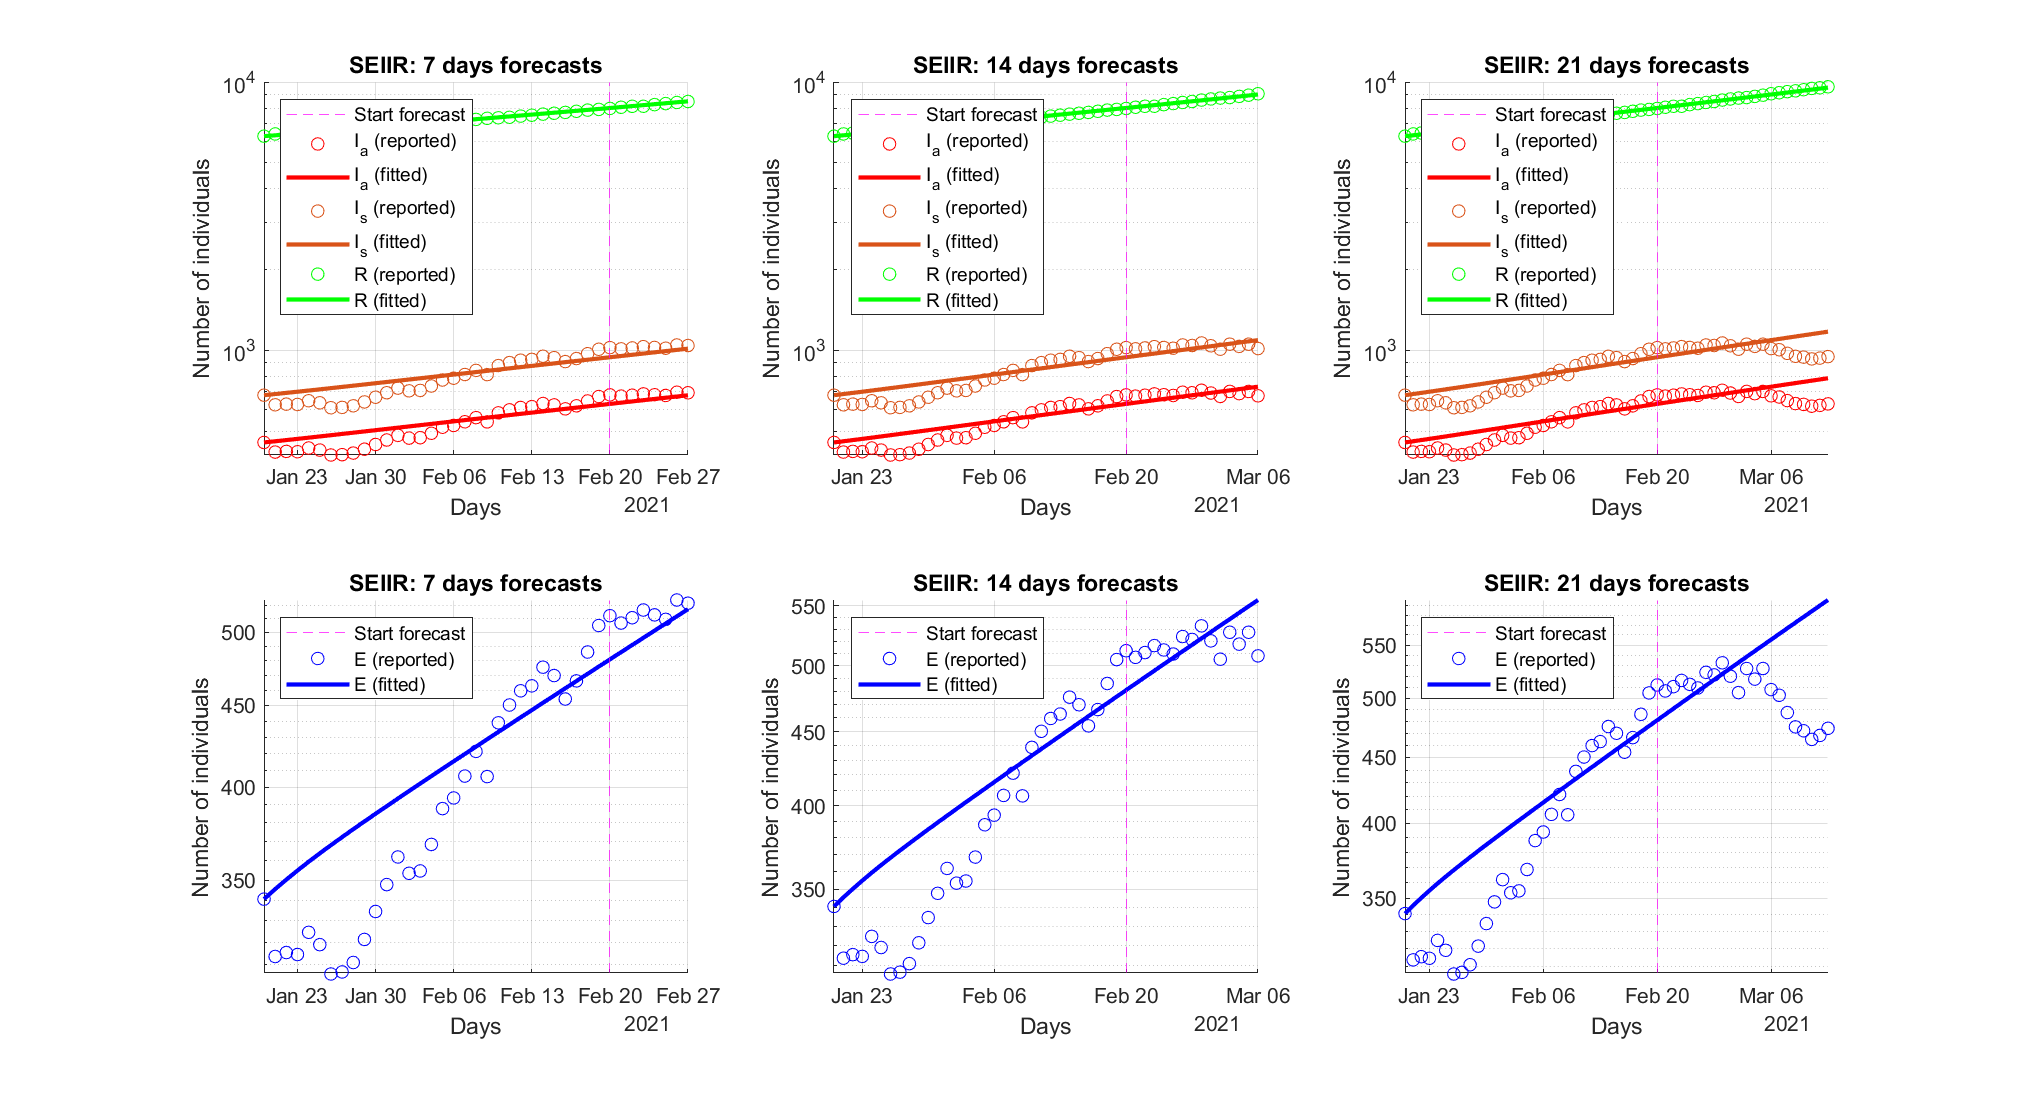
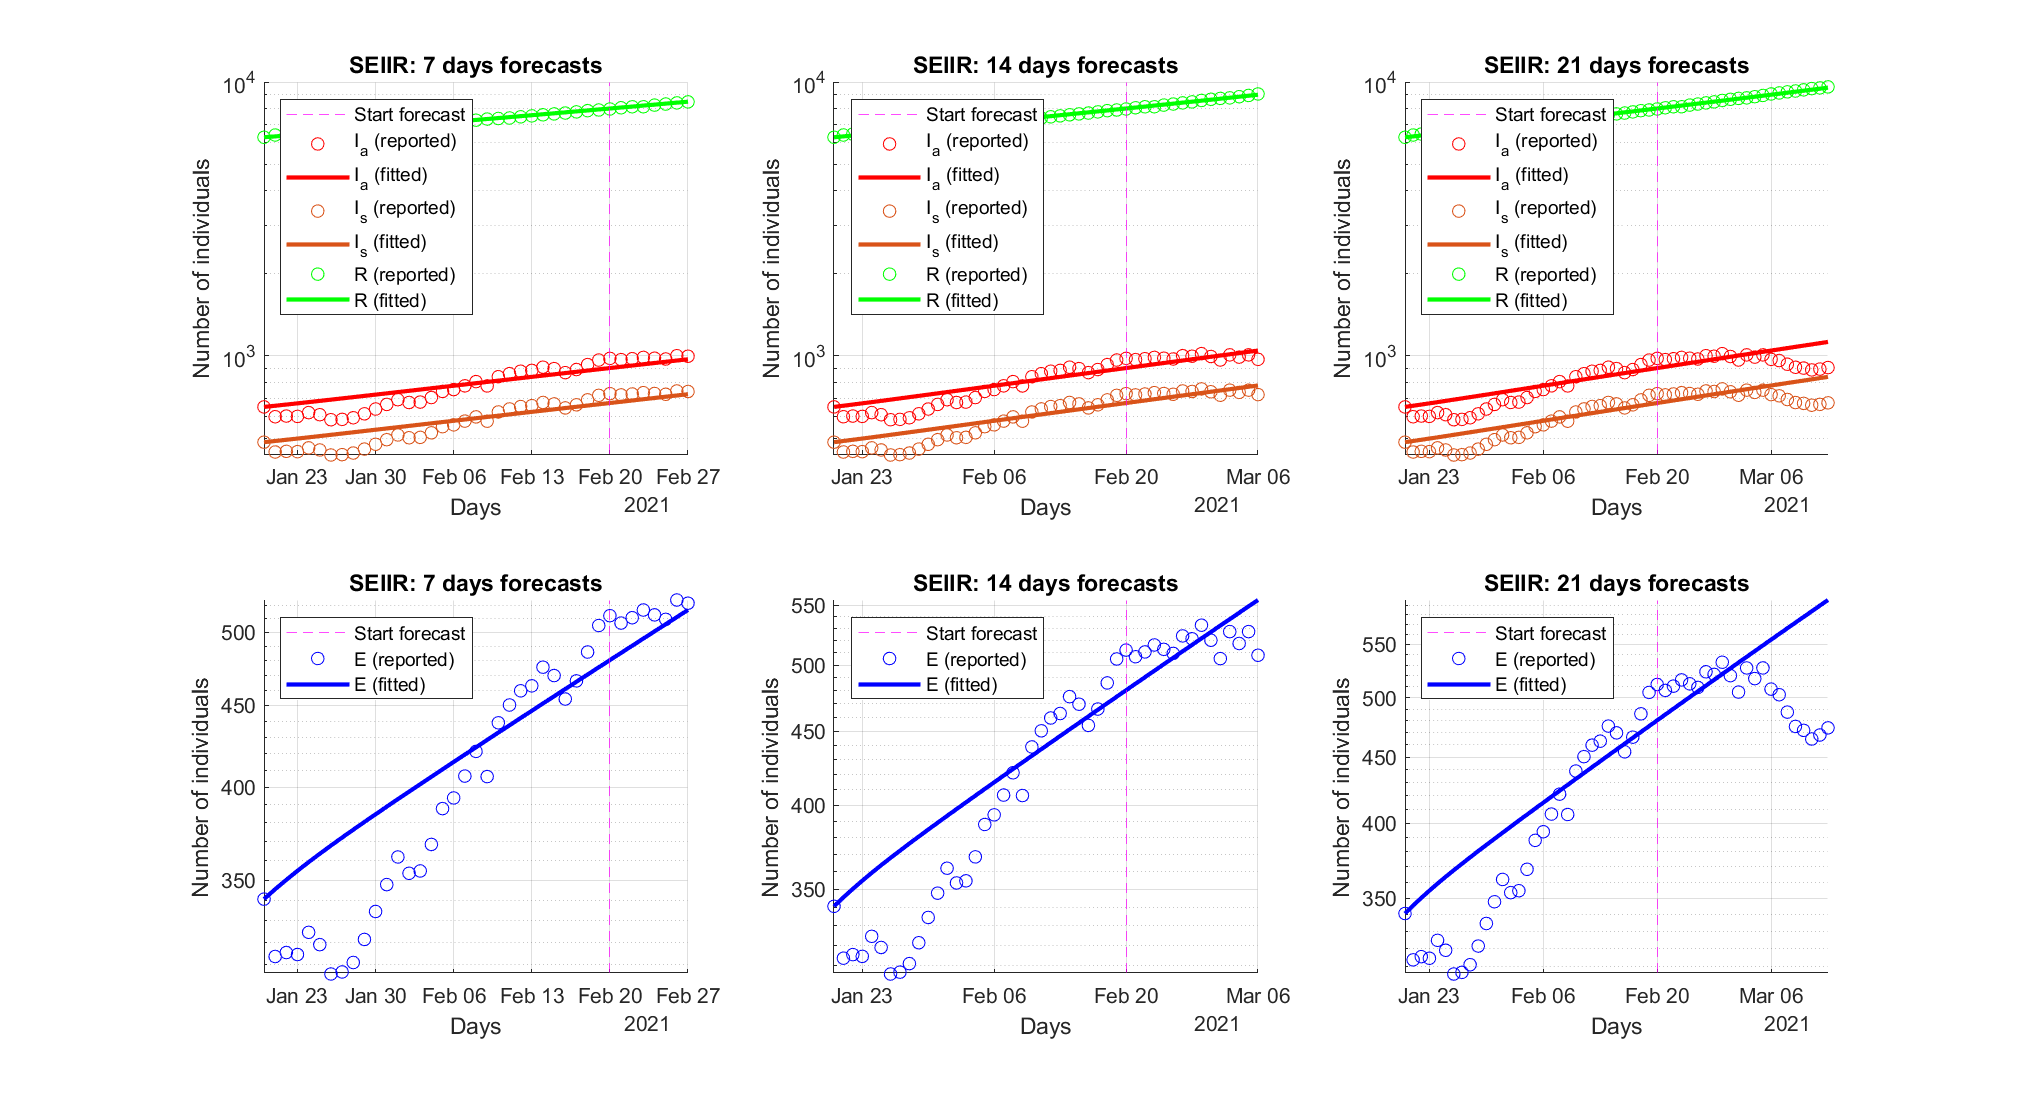
Bug fix

diff --git a/models/SEIIRHD/simulate_SEIIRHD.m b/models/SEIIRHD/simulate_SEIIRHD.m
@@ -11,37 +11,50 @@ function simulate_SEIIRHD(timeV, X1, X2, X3, X4, path)
 % Output
 %         Void function
 
-E1 = X1(:, 2);
 I_a1 = X1(:, 3);
 I_s1 = X1(:, 4);
 H1 = X1(:, 5);
-R1 = X1(:, 6);
 D1 = X1(:, 7);
 
-E2 = X2(:, 2);
 I_a2 = X2(:, 3);
 I_s2 = X2(:, 4);
 H2 = X2(:, 5);
-R2 = X2(:, 6);
 D2 = X2(:, 7);
 
-E3 = X3(:, 2);
 I_a3 = X3(:, 3);
 I_s3 = X3(:, 4);
 H3 = X3(:, 5);
-R3 = X3(:, 6);
 D3 = X3(:, 7);
 
-E4 = X4(:, 2);
 I_a4 = X4(:, 3);
 I_s4 = X4(:, 4);
 H4 = X4(:, 5);
-R4 = X4(:, 6);
 D4 = X4(:, 7);
+
+fprintf("R0 = 0.5: "); 
+fprintf("Max I_a: %f, ", max(I_a1)); 
+fprintf("Max I_s: %f\n", max(I_s1)); 
+fprintf("Max H: %f, ", max(H1)); 
+fprintf("Max D: %f\n", max(D1)); 
+fprintf("R0 = 1: "); 
+fprintf("Max I_a: %f, ", max(I_a2)); 
+fprintf("Max I_s: %f\n", max(I_s2)); 
+fprintf("Max H: %f, ", max(H2)); 
+fprintf("Max D: %f\n", max(D2)); 
+fprintf("R0 = 1.5: "); 
+fprintf("Max I_a: %f, ", max(I_a3)); 
+fprintf("Max I_s: %f\n", max(I_s3)); 
+fprintf("Max H: %f, ", max(H3)); 
+fprintf("Max D: %f\n", max(D3)); 
+fprintf("R0 = 3"); 
+fprintf("Max I_a: %f, ", max(I_a4)); 
+fprintf("Max I_s: %f\n", max(I_s4)); 
+fprintf("Max H: %f, ", max(H4)); 
+fprintf("Max D: %f\n", max(D4)); 
 
 x0=100;
 y0=100;
-width=900;
+width=1200;
 height=700;
 set(gcf,'position',[x0,y0,width,height]);
 

diff --git a/experiments/january/Molise.m b/experiments/january/Molise.m
@@ -106,7 +106,7 @@ plot_SEIR(X_SEIR, X0_ad_SEIR, N, p_SEIR, dates, t0, tf, tp,"./results/january/Mo
 %% FITTING SEIIR MODEL
 
 S = N-E-I-R;
-f0 = 0.6; 
+f0 = 0.4264; 
 
 I_a = (1-f0)*I;
 I_s = f0*I;
